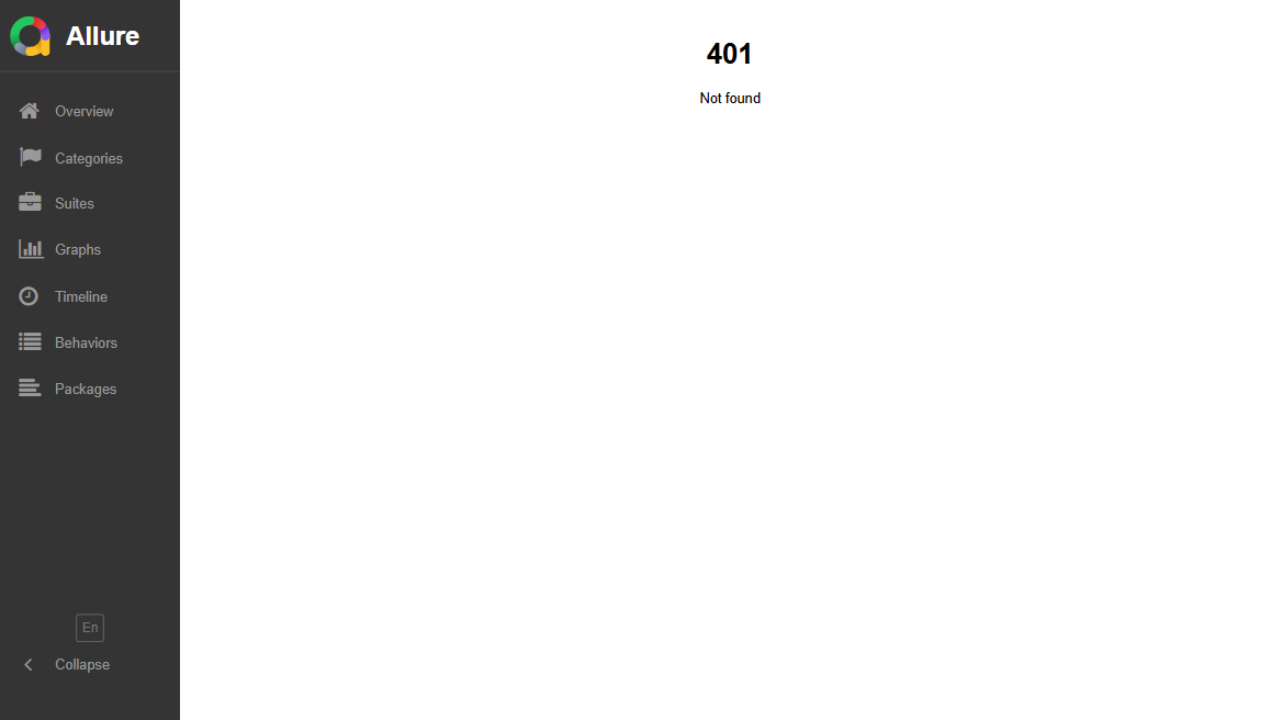
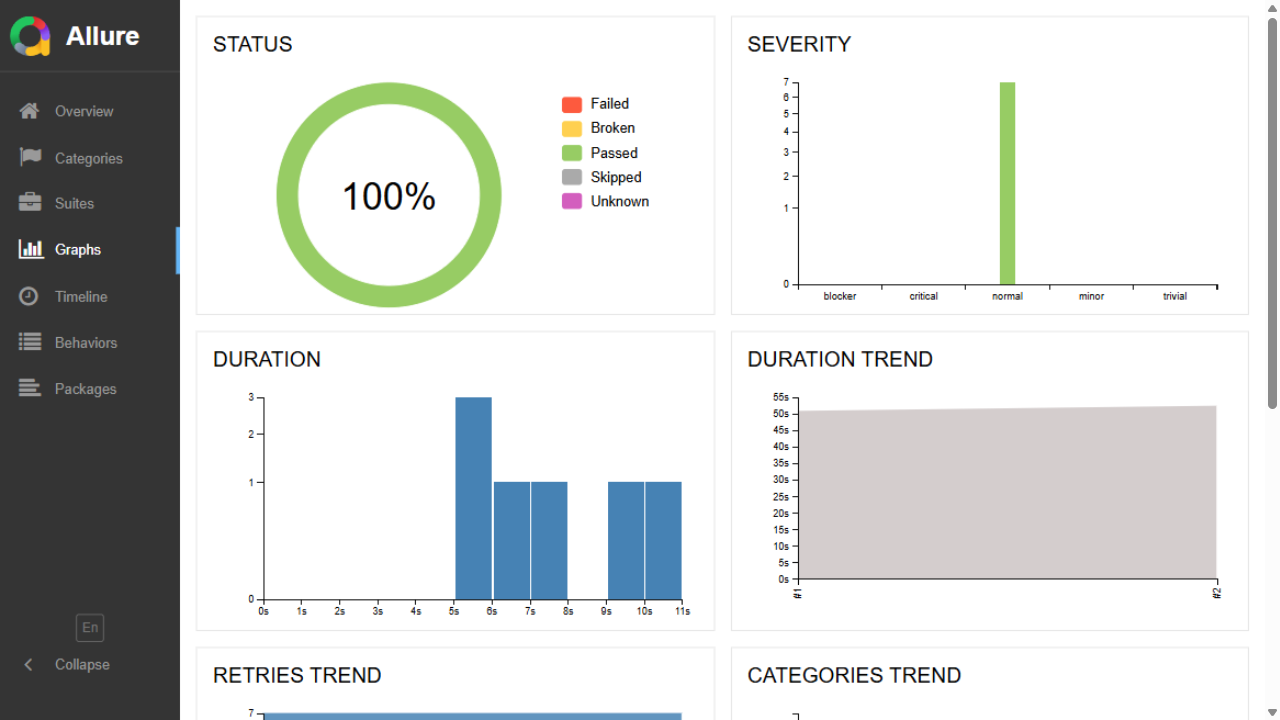
docs: скрины по ревью — актуальный дашборд TestOps с виджетами, Graphs без 401, Jira с прикреплёнными тест-кейсами TestOps, скрин Telegram-карточек

diff --git a/README.MD b/README.MD
@@ -142,7 +142,7 @@ gradlew smoke -Dbrowser=chrome -DremoteURL=https://user1:1234@selenoid.qa.guru/w
 
 ## 🎫 Интеграция с Jira
 
-По каждому сценарию автотеста заведена задача в [Jira](https://jira.qa.guru/browse/NEWAPP-36), в описании — ссылка на запуск в Allure TestOps.
+По каждому сценарию автотеста заведена задача в [Jira](https://jira.qa.guru/browse/NEWAPP-36), в описании — ссылка на запуск в Allure TestOps, а в блок «ТестОпс: Test Artifacts» прикреплён соответствующий тест-кейс из Allure TestOps.
 
 <div align="center">
   <img src="images/jira-issue.png" alt="Jira — задача по автотесту" width="800">
@@ -151,6 +151,10 @@ gradlew smoke -Dbrowser=chrome -DremoteURL=https://user1:1234@selenoid.qa.guru/w
 ## 📨 Уведомление в Telegram при помощи бота
 
 После каждой сборки бот [@electroniktm_qa_bot](https://t.me/electroniktm_qa_bot) отправляет карточку с результатами (статистика, длительность, ссылка на Allure-отчёт) через `allure-notifications` и SOCKS5-прокси курса. Токен бота и `chat_id` существуют только в Jenkins (`notifications/config.json` создаётся шагом сборки), в git — только шаблон [notifications/config.example.json](notifications/config.example.json).
+
+<div align="center">
+  <img src="images/telegram.png" alt="Telegram — карточки результатов сборок" width="480">
+</div>
 
 ## 🎬 Пример видео выполнения тестов на Selenoid
 
